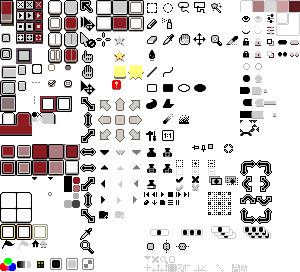
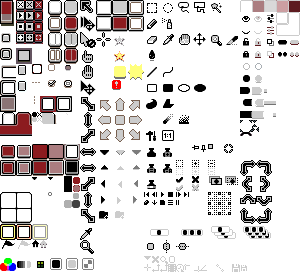
$B%j%9%H%a%K%e!<$NI=<($,JQ$@$C$?$N$r=$@5(B

Changed region(s): [[0.21, 0.5294, 0.27, 0.6471], [0.0, 0.2353, 0.06, 0.3529]]

diff --git a/README.md b/README.md
@@ -1,1 +1,3 @@
 # Aseprite-Famicom-Theme
+
+defaultを弄ってファミコンっぽいテーマを作りました。
